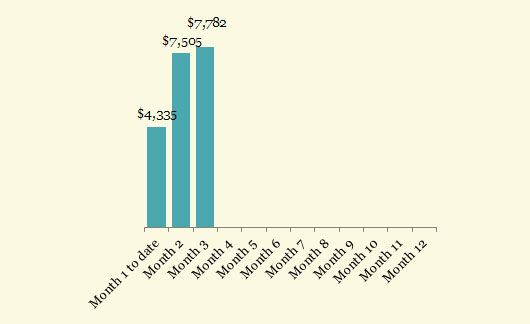
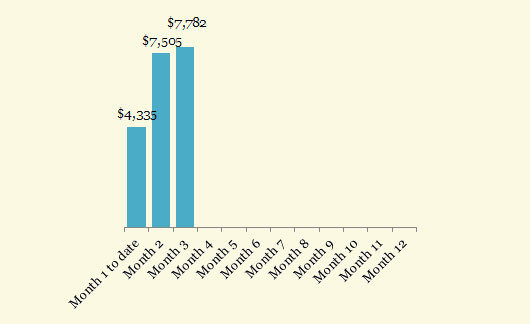
Innitial Commit

Changed region(s): [[0.2113, 0.0309, 0.4226, 0.7099], [0.1208, 0.7407, 0.8151, 0.9568], [0.7849, 0.679, 0.8151, 0.7099]]

diff --git a/public/dashboardpipeline.html b/public/dashboardpipeline.html
@@ -76,7 +76,7 @@
 	   <div class="container-right">
 	    <div class="heading-div"><h3>GBS Pipeline per IOT($M)</h3></div>
 		<div class="content-div">
-		 <img style="margin:22px 0 0 0; width:100%;" src="images/dashboard-images/cbs-dshbrd-pipelineby-iot.jpg"/>
+		 <img style="width:100%;" src"images/dashboard-images/cbs-dshbrd-pipelineby-iot.jpg"/>
 		</div>
 	   </div>
 	  </div>
